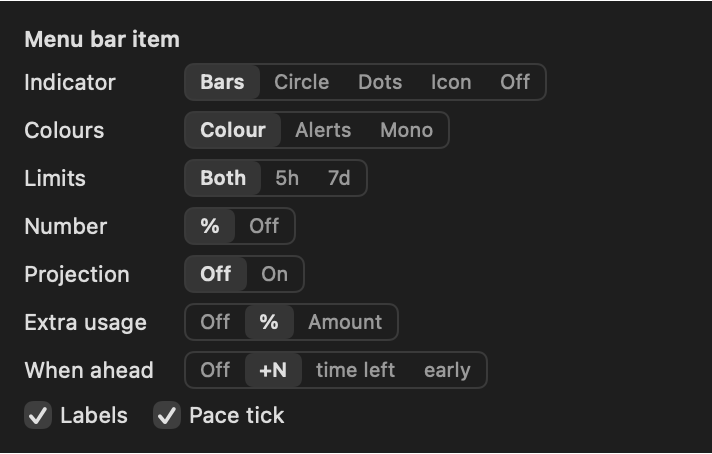
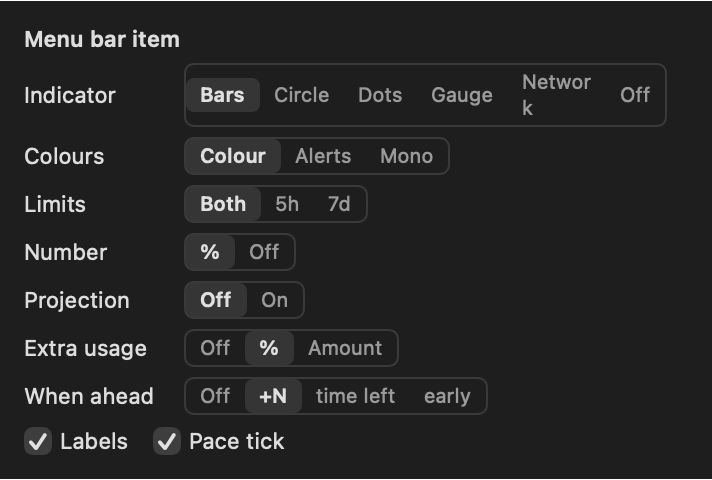
Menu bar: Gauge and Network indicators
Icon is called Gauge. Network is a drawing of our own: a hub with six linked nodes in the pace colour, not a lookalike of any logo. README, decisions and screenshots updated.

diff --git a/MenuBar/Sources/MenuBarImage.swift b/MenuBar/Sources/MenuBarImage.swift
@@ -6,7 +6,8 @@ import AppKit
 ///   furthest ahead of pace, see UsageModel.compactRings) and the session inside;
 ///   Enterprise/Team: one ring for the budget.
 /// - Dots: the text alone, with a small pace-coloured dot before each row.
-/// - Icon: a gauge in the worst pace colour, its needle at the highest use, then the text.
+/// - Gauge (saved as "icon"): a gauge in the worst pace colour, its needle at the highest use, then the text.
+/// - Network (saved as "splash"): a hub with linked nodes in the worst pace colour, then the text.
 /// - Off (saved as "text"): the text alone.
 ///
 /// Colour coding, as ClaudeUsageBar's pace icon (see PaceLead): green on or under pace, yellow
@@ -83,9 +84,10 @@ enum MenuBarImage {
     }
 
     /// The Indicator setting: Bars, Circle (rings; saved as "compact", its earlier name), Dots (text
-    /// with a pace dot), Icon (a gauge in the pace colour) or Off (the text alone; saved as "text").
+    /// with a pace dot), Gauge (saved as "icon"), Network (saved as "splash"; a gauge or a small
+    /// network in the pace colour) or Off (the text alone; saved as "text").
     enum Style: String, CaseIterable {
-        case bars, compact, dots, icon, text
+        case bars, compact, dots, icon, splash, text
         static let key = "menuBarStyle"
         var name: String { name(single: false) }
         /// `single`: one limit (an Enterprise/Team budget), so "Bar" and "Dot".
@@ -94,7 +96,8 @@ enum MenuBarImage {
             case .bars: return single ? "Bar" : "Bars"
             case .compact: return "Circle"
             case .dots: return single ? "Dot" : "Dots"
-            case .icon: return "Icon"
+            case .icon: return "Gauge"
+            case .splash: return "Network"
             case .text: return "Off"
             }
         }
@@ -414,13 +417,13 @@ enum MenuBarImage {
         let (rows, rings) = (o.limits.pick(rows), o.limits.pick(rings))
         let main = style == .compact && !rings.isEmpty ? makeCompact(rings: rings, options: o)
             : (style == .dots || style == .text) && !rows.isEmpty ? makeDots(rows: rows, options: o, dots: style == .dots)
-            : style == .icon && !rows.isEmpty ? makeDots(rows: rows, options: o, dots: false, icon: true)
+            : (style == .icon || style == .splash) && !rows.isEmpty ? makeDots(rows: rows, options: o, dots: false, glyph: style)
             : !rows.isEmpty ? make(rows: rows, options: o) : nil
         guard let main else { return nil }
         guard o.extra, let extra else { return main }
         let extraItem = style == .compact ? makeCompact(rings: [extra], options: o)
-            : style == .dots || style == .text || style == .icon
-                ? makeDots(rows: [extra], options: o, dots: style == .dots, icon: style == .icon)
+            : style == .dots || style == .text || style == .icon || style == .splash
+                ? makeDots(rows: [extra], options: o, dots: style == .dots, glyph: style == .icon || style == .splash ? style : nil)
             : make(rows: [extra], options: o)
         return beside(main, extraItem)
     }
@@ -441,13 +444,14 @@ enum MenuBarImage {
     /// stays in the text colour. Mono has no dots; Alerts shows one only once ahead or nearly full,
     /// and takes no room without one. One row is a single 11 pt line, like the system's own
     /// labels; more rows (or one with the projection under it) stack at 9 pt. `dots: false` is the
-    /// Off indicator: the same text, no dots. `icon`: a gauge before the text instead (Icon).
-    static func makeDots(rows: [Row], options o: Options = Options(), dots: Bool = true, icon: Bool = false) -> NSImage {
+    /// Off indicator: the same text, no dots. `glyph` (`.icon` or `.splash`): a gauge or a network
+    /// before the text instead.
+    static func makeDots(rows: [Row], options o: Options = Options(), dots: Bool = true, glyph: Style? = nil) -> NSImage {
         var textRows = lines(rows.map { cells($0, o, label: o.labels) }, o)
         // Never an empty item (nothing to click to open the popup): settings saved before the
         // popup blocked such combinations show the plain number.
         let hasDot = dots && rows.contains { dotColor($0, o) != nil }
-        if !icon, !hasDot, textRows.allSatisfy({ $0[1].isEmpty && $0[2].isEmpty }) {
+        if glyph == nil, !hasDot, textRows.allSatisfy({ $0[1].isEmpty && $0[2].isEmpty }) {
             var shown = o; shown.percent = true
             textRows = lines(rows.map { cells($0, shown, label: o.labels) }, shown)
         }
@@ -455,7 +459,8 @@ enum MenuBarImage {
         let fonts = Columns.fonts(size: small ? 9 : 11, weight: compactWeight(stacked: small))
         let columns = Columns(textRows, leftAligned: [true, false, false, false], fonts: fonts)
         let dot: CGFloat = small ? 4 : 5
-        let gauge = icon ? gaugeImage(rows, o, pointSize: small ? 15 : 14) : nil
+        let gauge = glyph == .icon ? gaugeImage(rows, o, pointSize: small ? 15 : 14)
+            : glyph == .splash ? splashImage(rows, o, size: small ? 15 : 14) : nil
         let dotSpace = gauge.map { $0.size.width + (columns.width > 0 ? 3 : 0) } ?? (hasDot ? dot + 2 : 0)
         let size = NSSize(width: max(dotSpace + columns.width, dot), height: height)
         let rowHeight = small ? Self.rowHeight : height
@@ -482,7 +487,45 @@ enum MenuBarImage {
         }
     }
 
-    /// The Icon indicator: the gauge symbol with its needle at the highest use shown, in the colour of
+    /// The Network indicator (saved as "splash"): a small network in the colour of the limit furthest
+    /// ahead of pace (the text colour in Mono, and in Alerts until one is ahead). Drawn at draw time,
+    /// so the text colour follows the menu bar's appearance.
+    private static func splashImage(_ rows: [Row], _ o: Options, size side: CGFloat) -> NSImage {
+        let worst = rows.max { paceState($0) < paceState($1) }
+        let tint: NSColor = worst.map { row in
+            switch o.palette {
+            case .colour: return color(paceState(row))
+            case .mono: return .labelColor
+            case .alerts: return paceState(row) >= .ahead ? color(paceState(row)) : .labelColor
+            }
+        } ?? .labelColor
+        return NSImage(size: NSSize(width: side, height: side), flipped: false) { rect in
+            let network = networkPieces(in: rect)
+            tint.setStroke(); network.lines.stroke()
+            tint.setFill(); network.nodes.forEach { $0.fill() }
+            return true
+        }
+    }
+
+    /// The network: a hub joined to six nodes at uneven distances, some nodes also linked to their
+    /// neighbour. A generic network sign of our own, deliberately not a starburst like the Claude logo.
+    static func networkPieces(in rect: NSRect) -> (lines: NSBezierPath, nodes: [NSBezierPath]) {
+        let w = rect.width
+        let c = NSPoint(x: rect.midX, y: rect.midY)
+        // (angle in degrees, distance from the hub), as shares of the width.
+        let spots: [(CGFloat, CGFloat)] = [(15, 0.38), (75, 0.34), (135, 0.39), (195, 0.33), (250, 0.38), (310, 0.35)]
+        let nodes = spots.map { deg, dist in
+            NSPoint(x: c.x + cos(deg * .pi / 180) * dist * w, y: c.y + sin(deg * .pi / 180) * dist * w)
+        }
+        let lines = NSBezierPath()
+        lines.lineWidth = max(1, w * 0.075); lines.lineCapStyle = .round
+        for n in nodes { lines.move(to: c); lines.line(to: n) }
+        for (i, j) in [(0, 1), (2, 3), (4, 5)] { lines.move(to: nodes[i]); lines.line(to: nodes[j]) }
+        func dot(_ p: NSPoint, _ r: CGFloat) -> NSBezierPath { NSBezierPath(ovalIn: NSRect(x: p.x - r, y: p.y - r, width: 2 * r, height: 2 * r)) }
+        return (lines, [dot(c, w * 0.15)] + nodes.map { dot($0, w * 0.085) })
+    }
+
+    /// The Gauge indicator (saved as "icon"): the gauge symbol with its needle at the highest use shown, in the colour of
     /// the limit furthest ahead of pace (the text colour in Mono, and in Alerts until one is ahead).
     /// Tinted at draw time, so the text colour follows the menu bar's appearance.
     private static func gaugeImage(_ rows: [Row], _ o: Options, pointSize: CGFloat) -> NSImage? {
@@ -506,6 +549,7 @@ enum MenuBarImage {
             return true
         }
     }
+
 
     /// The Dots style's dot: the pace colour, none in Mono, and in Alerts only once it's ahead of
     /// pace or nearly full.

diff --git a/MenuBar/Sources/UsageMeterApp.swift b/MenuBar/Sources/UsageMeterApp.swift
@@ -10,7 +10,7 @@ struct UsageMeterApp: App {
     )
 
     init() {
-        // `UsageMeter --render-preview out.png [live] [offline] [enterprise] [hover] [light] [daily] [seen] [saved] [compact|dots|icon|text] [mono] [amount] [extra] [fable] [only5h|only7d] [beside|projected] [update] [panel|settings|scene] [nolabels] [nopercent] [nopace] [noahead] [left|early] [overview] [back=N] [full|burst]` (`hover=0.85`: pointer at 85% of the times): render the panel rows (`panel`: the whole popup; `settings`: its menu bar settings; `scene`: the whole popup opened under the item on a plain menu bar) to a PNG and exit.
+        // `UsageMeter --render-preview out.png [live] [offline] [enterprise] [hover] [light] [daily] [seen] [saved] [compact|dots|icon|splash|text] [mono] [amount] [extra] [fable] [only5h|only7d] [beside|projected] [update] [panel|settings|scene] [nolabels] [nopercent] [nopace] [noahead] [left|early] [overview] [back=N] [full|burst]` (`hover=0.85`: pointer at 85% of the times): render the panel rows (`panel`: the whole popup; `settings`: its menu bar settings; `scene`: the whole popup opened under the item on a plain menu bar) to a PNG and exit.
         let args = CommandLine.arguments
         if args.contains("--check-update") { Updater.checkFromCommandLine() }
         if let i = args.firstIndex(of: "--render-preview"), i + 1 < args.count {
@@ -103,7 +103,7 @@ enum PreviewRenderer {
         store.removePersistentDomain(forName: previewSuite)
         typealias Key = MenuBarImage.Options.Key
         let settings: [String: Any] = [
-            MenuBarImage.Style.key: a.contains("compact") ? "compact" : a.contains("dots") ? "dots" : a.contains("text") ? "text" : a.contains("icon") ? "icon" : "bars",
+            MenuBarImage.Style.key: a.contains("compact") ? "compact" : a.contains("dots") ? "dots" : a.contains("text") ? "text" : a.contains("icon") ? "icon" : a.contains("splash") ? "splash" : "bars",
             Key.labels: !a.contains("nolabels"), Key.percent: !a.contains("nopercent") && !a.contains("projected"),
             Key.pace: !a.contains("nopace"), Key.ahead: !a.contains("noahead"),
             Key.aheadAs: a.contains("left") ? "left" : a.contains("early") ? "early" : "points",
@@ -228,7 +228,7 @@ enum PreviewRenderer {
                                            extra: args.contains("extra"),
                                            limits: args.contains("only5h") ? .session : args.contains("only7d") ? .week : .both,
                                            projection: args.contains("projected") || args.contains("beside") ? .on : .off)
-        return MenuBarImage.item(style: args.contains("compact") ? .compact : args.contains("dots") ? .dots : args.contains("text") ? .text : args.contains("icon") ? .icon : .bars, rows: model.menuBarRows(),
+        return MenuBarImage.item(style: args.contains("compact") ? .compact : args.contains("dots") ? .dots : args.contains("text") ? .text : args.contains("icon") ? .icon : args.contains("splash") ? .splash : .bars, rows: model.menuBarRows(),
                                  rings: model.compactRings(), extra: model.extraRow(), options: options)
     }
 

diff --git a/MenuBar/Sources/Views.swift b/MenuBar/Sources/Views.swift
@@ -68,7 +68,8 @@ struct MenuBarSettings: View {
                            disabled: !showPercent && !projectionOn ? ["dots": empty, "text": empty] : [:])
                     .help("Bars: the session and weekly bars. Circle: rings, the week outside and the session inside "
                           + "(one budget ring on Enterprise). Dots: the numbers, each after a dot in its pace colour. "
-                          + "Icon: a gauge in the pace colour before the numbers. Off: the numbers alone.")
+                          + "Gauge: a gauge in the pace colour, its needle at the highest use. Network: a hub with linked nodes in the pace colour. "
+                          + "Off: the numbers alone.")
             }
             // Text has nothing to colour.
             if style != .text {

diff --git a/README.md b/README.md
@@ -20,9 +20,9 @@ in plain words whether you'll run out before the reset. It handles both kinds of
 
 Each part is a setting in the popup (see [Settings](#settings)), shown enlarged on a dark and a light menu bar.
 
-| Bars | Circle | Dots | Icon | Indicator off |
-|---|---|---|---|---|
-| <img src="docs/screenshots/menubar-pro-max.png" width="140" alt="Menu bar item with 5h and 7d bars at 20% (green, under pace) and 60% (yellow, ahead of pace), each with a pace tick, on a dark and a light menu bar"> | <img src="docs/screenshots/menubar-compact.png" width="110" alt="Circle style: two rings, the week outside in yellow and the session inside in green, with 5h 20% and 7d 60% beside them"> | <img src="docs/screenshots/menubar-dots.png" width="94" alt="Dots style: no bars, 5h 20% and 7d 60% as text, each after a dot in its pace colour, green and yellow"> | <img src="docs/screenshots/menubar-icon.png" width="126" alt="Icon indicator: a gauge in yellow, the colour of the limit furthest ahead of pace, before 5h 20% and 7d 60%"> | <img src="docs/screenshots/menubar-text.png" width="82" alt="Indicator off: 5h 20% and 7d 60% as text only, no bars and no colour"> |
+| Bars | Circle | Dots | Gauge | Network | Indicator off |
+|---|---|---|---|---|---|
+| <img src="docs/screenshots/menubar-pro-max.png" width="140" alt="Menu bar item with 5h and 7d bars at 20% (green, under pace) and 60% (yellow, ahead of pace), each with a pace tick, on a dark and a light menu bar"> | <img src="docs/screenshots/menubar-compact.png" width="110" alt="Circle style: two rings, the week outside in yellow and the session inside in green, with 5h 20% and 7d 60% beside them"> | <img src="docs/screenshots/menubar-dots.png" width="94" alt="Dots style: no bars, 5h 20% and 7d 60% as text, each after a dot in its pace colour, green and yellow"> | <img src="docs/screenshots/menubar-gauge.png" width="126" alt="Gauge indicator: a gauge in yellow, the colour of the limit furthest ahead of pace, its needle at about two thirds, before 5h 20% and 7d 60%"> | <img src="docs/screenshots/menubar-network.png" width="118" alt="Network indicator: a small hub with linked nodes in yellow, the colour of the limit furthest ahead of pace, before 5h 20% and 7d 60%"> | <img src="docs/screenshots/menubar-text.png" width="82" alt="Indicator off: 5h 20% and 7d 60% as text only, no bars and no colour"> |
 
 | Mono | Alerts | Projection on | Projection on, Number off | Only the 5 h limit |
 |---|---|---|---|---|
@@ -47,11 +47,12 @@ already keeps on your Mac.
     session inside (the week follows the weekly limit furthest ahead of pace), or one budget
     ring on an Enterprise/Team seat.
   - **Dots**: no bars, just the numbers, each after a small dot in its pace colour.
-  - **Icon**: a gauge before the numbers, in the colour of the limit furthest ahead of pace, its
+  - **Gauge**: a gauge before the numbers, in the colour of the limit furthest ahead of pace, its
     needle at the highest use.
+  - **Network**: a small hub with linked nodes before the numbers, in that same colour.
   - **Off**: just the numbers, no graphic and no colour.
 
-  Bars, Circle, Dots and Icon use the same colours, as ClaudeUsageBar's pace icon: green on or under pace, yellow
+  All but Off use the same colours, as ClaudeUsageBar's pace icon: green on or under pace, yellow
   ahead of it, orange 15+ points ahead (about a day early in a week) or nearly full (90%+). Early
   in a window, where a few percent would look far ahead, it stays plain. Switch **Colour** to
   **Mono** for bars or rings in the menu bar's text colour, like the numbers, or to **Alerts** for
@@ -151,7 +152,7 @@ the app remembers). They sit under the graph: **Menu bar item**, one setting per
 **Open at login**, **Check for updates** and **Quit** (⌘Q also quits while the popup is open).
 Hover over a control to see what it does.
 
-- **Indicator**: Bars, Circle, Dots, Icon or Off (on a $ budget: Bar and Dot). With Dots or Off the
+- **Indicator**: Bars, Circle, Dots, Gauge, Network or Off (on a $ budget: Bar and Dot). With Dots or Off the
   item needs a number or the projection, so the choices that would leave it empty are greyed out.
 - **Colours** (not with Off): Colour, Alerts or Mono. In Dots, Mono has no dots and Alerts shows one only once ahead.
 - **Limits** (Pro/Max): both, or only `5h` or `7d`. The popup and the graph keep showing both.
@@ -167,7 +168,7 @@ Hover over a control to see what it does.
 
 | Pro / Max | Enterprise / Team |
 |---|---|
-| <img src="docs/screenshots/settings-pro-max.png" width="356" alt="Menu bar item settings, one per row: Indicator Bars, Circle, Dots, Icon or Off; Colours Colour, Alerts or Mono; Limits Both, 5h or 7d; Number % or Off; Projection Off or On; Extra usage Off, % or Amount; When ahead Off, +N, time left or early; checkboxes Labels and Pace tick"> | <img src="docs/screenshots/settings-enterprise.png" width="356" alt="The same settings on a budget account: Number %, Amount or Off, Projection Off or On, no Limits or Extra usage rows, and only the Pace tick checkbox"> |
+| <img src="docs/screenshots/settings-pro-max.png" width="356" alt="Menu bar item settings, one per row: Indicator Bars, Circle, Dots, Gauge, Network or Off; Colours Colour, Alerts or Mono; Limits Both, 5h or 7d; Number % or Off; Projection Off or On; Extra usage Off, % or Amount; When ahead Off, +N, time left or early; checkboxes Labels and Pace tick"> | <img src="docs/screenshots/settings-enterprise.png" width="356" alt="The same settings on a budget account: Number %, Amount or Off, Projection Off or On, no Limits or Extra usage rows, and only the Pace tick checkbox"> |
 
 **Updates.** With **Check for updates** on, a newer version shows under the popup's title, with
 what's new and an **Update** button that installs it the way your copy came. A Homebrew copy
@@ -330,10 +331,10 @@ $APP --render-preview docs/screenshots/popup-pro-max-fable.png fable
 mv docs/screenshots/popup-pro-max-extra.png.label.png docs/screenshots/menubar-pro-max-extra.png
 $APP --render-preview docs/screenshots/settings-enterprise.png settings enterprise amount
 $APP --render-preview docs/screenshots/hero.png scene beside
-for v in compact dots icon text mono alerts beside projected only5h "enterprise amount" "compact enterprise amount beside"; do
+for v in compact dots icon splash text mono alerts beside projected only5h "enterprise amount" "compact enterprise amount beside"; do
   $APP --render-preview /tmp/um.png $v
   case "$v" in
-    beside) name=projection-beside ;; projected) name=projection-only ;;
+    beside) name=projection-beside ;; projected) name=projection-only ;; icon) name=gauge ;; splash) name=network ;;
     "enterprise amount") name=enterprise-amount ;; "compact enterprise amount beside") name=projection ;;
     *) name=$v ;;
   esac
@@ -345,7 +346,7 @@ rm docs/screenshots/*.label.png /tmp/um.png
 Renders never read or change your own settings: they use the arguments, in a throwaway store.
 
 `scene` draws the whole popup opened under the item on a plain menu bar (the README's first image).
-Add `compact` for the Circle menu bar style, `dots` for Dots, `icon` for Icon, `text` for Indicator off, `beside` for Projection on (`projected`: on, with Number off), `mono` or `alerts` for those palettes, `amount` for the budget's amount, `extra` for Pro/Max with extra usage (and its menu bar item), `only5h` or `only7d` for one limit in the menu bar, `fable` for a Fable weekly limit (and its line in the graph), `update` for a newer release offered, `panel` for the whole popup or `settings` for its settings alone, `nolabels`, `nopercent`, `nopace` or `noahead` to leave those out, `left` or `early` for the time left or early, `daily` for the per-day bars, `overview` for the Weeks or Months view, `full` for the session at its limit, `burst` for 58% twenty minutes into a session, `back=2` for two periods (or overview pages) back, `hover` to show the graph's tooltip (`hover=1.5` halfway along the projection), `light` for light mode, or `live` to render your
+Add `compact` for the Circle menu bar style, `dots` for Dots, `icon` for Gauge, `splash` for Network, `text` for Indicator off, `beside` for Projection on (`projected`: on, with Number off), `mono` or `alerts` for those palettes, `amount` for the budget's amount, `extra` for Pro/Max with extra usage (and its menu bar item), `only5h` or `only7d` for one limit in the menu bar, `fable` for a Fable weekly limit (and its line in the graph), `update` for a newer release offered, `panel` for the whole popup or `settings` for its settings alone, `nolabels`, `nopercent`, `nopace` or `noahead` to leave those out, `left` or `early` for the time left or early, `daily` for the per-day bars, `overview` for the Weeks or Months view, `full` for the session at its limit, `burst` for 58% twenty minutes into a session, `back=2` for two periods (or overview pages) back, `hover` to show the graph's tooltip (`hover=1.5` halfway along the projection), `light` for light mode, or `live` to render your
 own current numbers and recorded history instead (don't commit those).
 
 ## Releasing

diff --git a/docs/DECISIONS.md b/docs/DECISIONS.md
@@ -43,14 +43,15 @@ options that were ruled out, so they aren't tried again.
   With Number off it takes the number's column, and the plain number shows until there's a projection: a
   bar with no text early in every window would look broken. (0.1.14 had Instead and Beside; both load as On.) The menu bar's amounts have no thousands separator
   (`$1990`): it only takes room, and a budget stays in four digits; the popup keeps it (`$1,990`).
-- **Indicator: Bars, Circle, Dots, Icon or Off** (2026-11-24). Was "Style"; Off is the numbers alone (saved as
+- **Indicator: Bars, Circle, Dots, Gauge, Network or Off** (2026-11-24). Was "Style"; Off is the numbers alone (saved as
   `text`, its first name), Circle the earlier Compact (still saved as `compact`). On a $ budget the names are
   singular (Bar, Dot). Dots puts a dot before each row for the pace colour, since the text stays in the text
   colour; Mono has no dots, Alerts shows one only once ahead. Without a dot the text starts at the edge: kept
   room read as a gap, and the width changes with the numbers anyway. The dot is small (4 pt stacked, 5 pt on
-  one line, 2 pt gap). Icon is Apple's gauge symbol (also shown when there's no data), tinted like the worst
-  limit, its needle at the highest use; not the Claude logo, which is Anthropic's mark and would suggest an
-  official app. With Dots or Off nothing else is sure to show, so the popup greys out combinations that would
+  one line, 2 pt gap). Gauge (saved as `icon`) is Apple's gauge symbol (also shown when there's no data),
+  tinted like the worst limit, its needle at the highest use. Network (saved as `splash`, after a short-lived
+  paint splash) is our own drawing: a hub with six linked nodes, in the same colour. Neither is, or imitates,
+  the Claude logo: it's Anthropic's mark, and a lookalike would suggest an official app. With Dots or Off nothing else is sure to show, so the popup greys out combinations that would
   leave the item empty (nothing to click); settings saved before that show the plain number. The palette has
   its own row (Colours), hidden with Off.
 - **A model's own weekly limit (Fable) is a third line in the week graph**, not a chart of its own: same 0-100%
